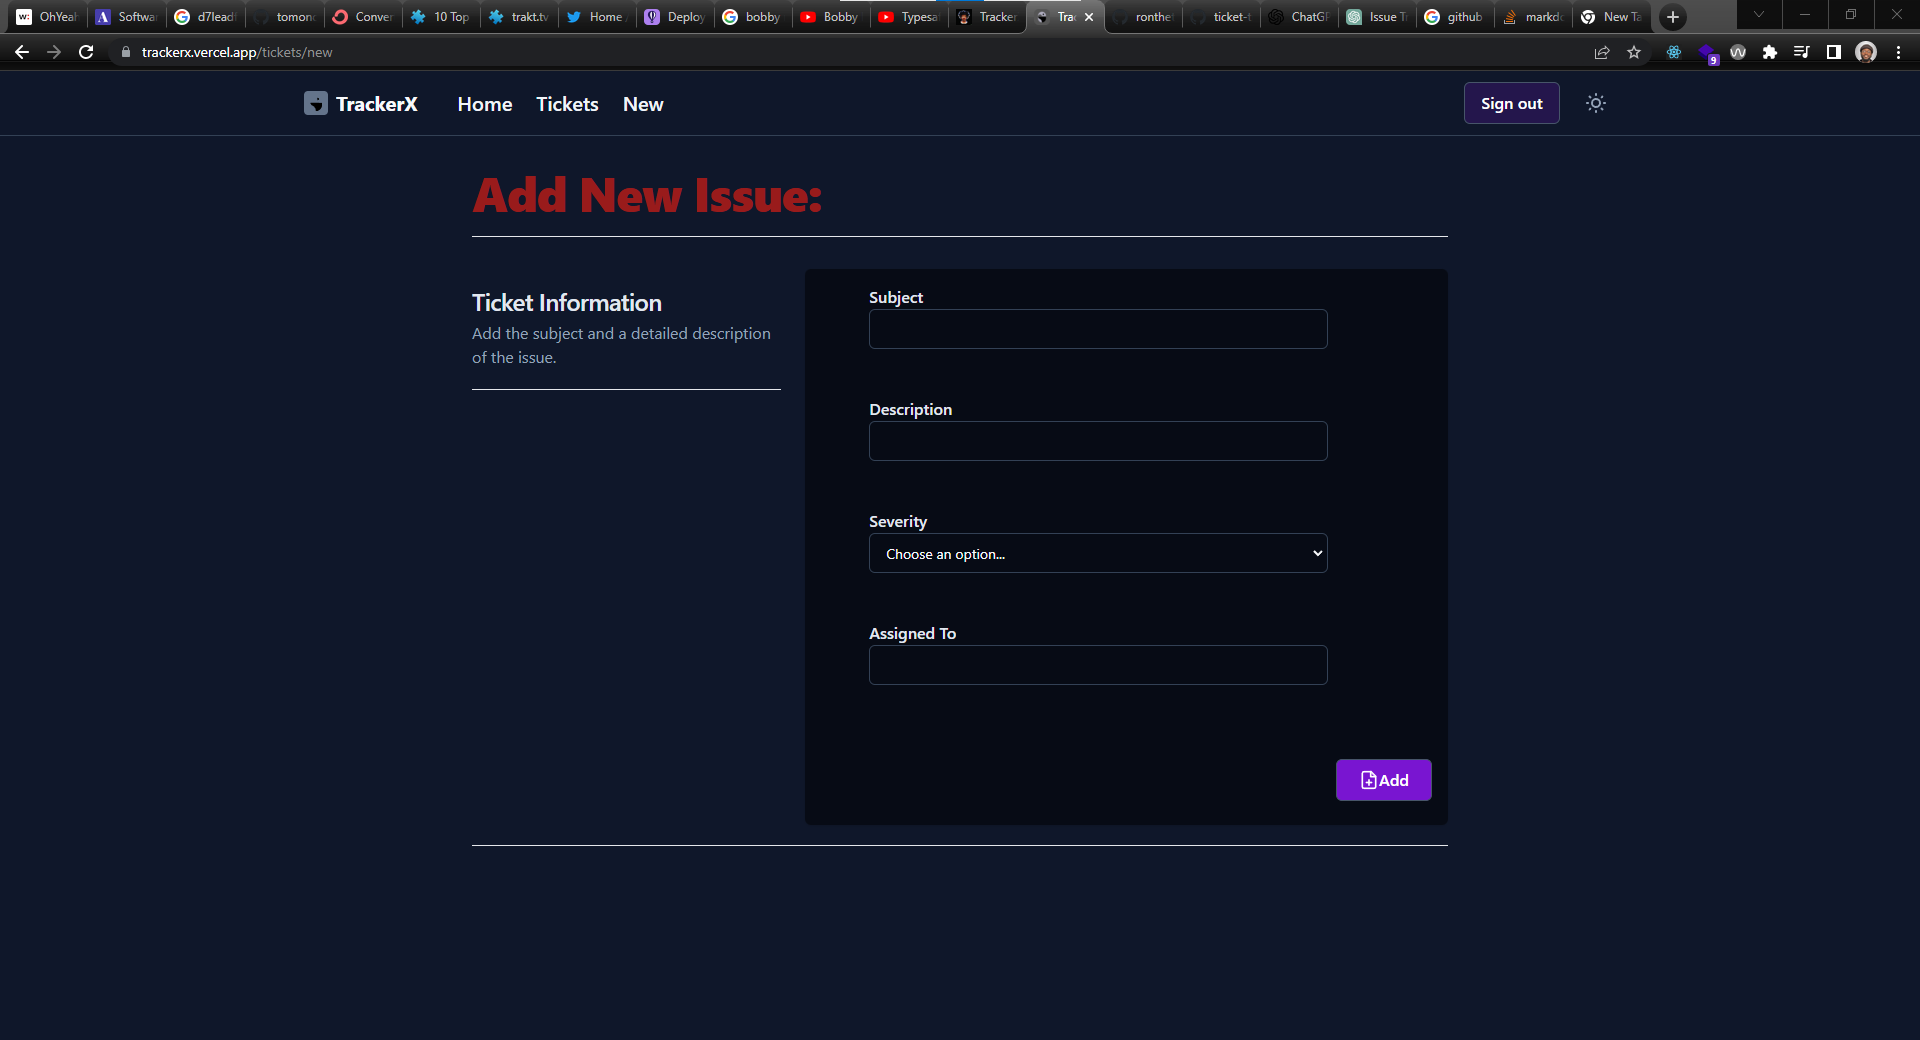
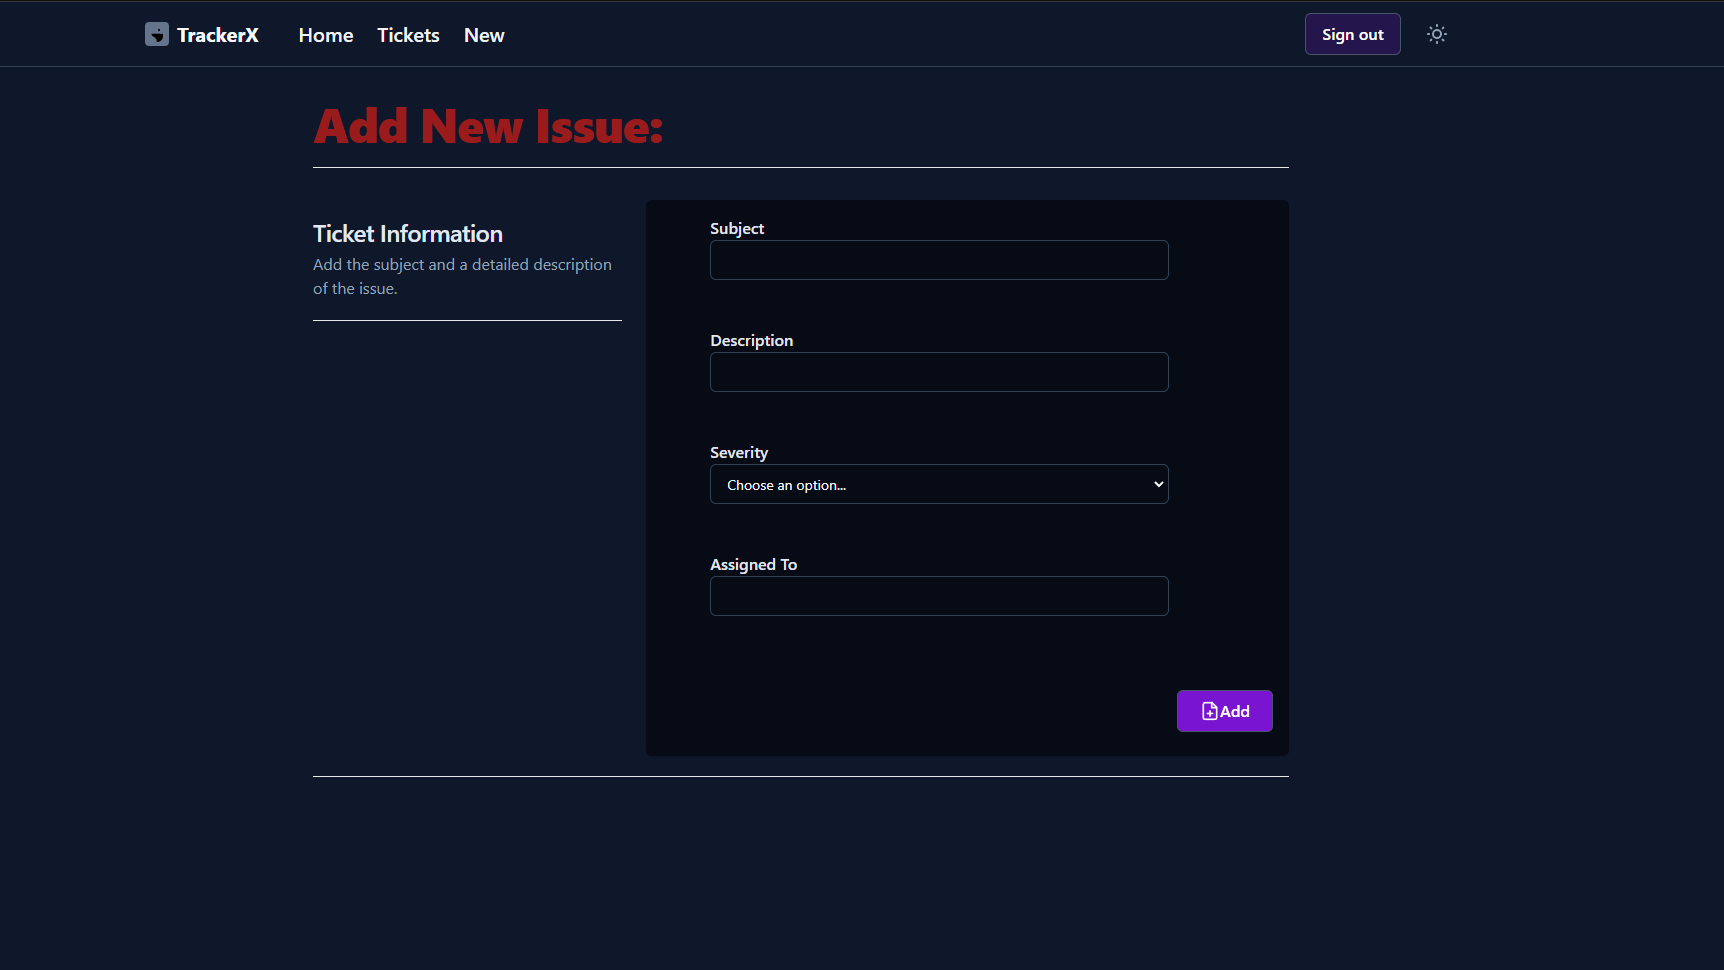
update readme and add images

diff --git a/README.md b/README.md
@@ -1,38 +1,15 @@
-This is a [Next.js](https://nextjs.org/) project bootstrapped with [`create-next-app`](https://github.com/vercel/next.js/tree/canary/packages/create-next-app).
+# TrackerX
 
-## Getting Started
+![hero](https://github.com/ronthetech/ticket-tracker/blob/main/public/img/0.png?raw=true)
 
-First, run the development server:
+A Web-based platform for tracking and managing issues. Users can easily create, track, and resolve bugs, and other tasks.
 
-```bash
-npm run dev
-# or
-yarn dev
-# or
-pnpm dev
-```
+## Create
 
-Open [http://localhost:3000](http://localhost:3000) with your browser to see the result.
+![create](https://github.com/ronthetech/ticket-tracker/blob/main/public/img/1.png?raw=true)
 
-You can start editing the page by modifying `pages/index.js`. The page auto-updates as you edit the file.
+## Tickets
 
-[API routes](https://nextjs.org/docs/api-routes/introduction) can be accessed on [http://localhost:3000/api/hello](http://localhost:3000/api/hello). This endpoint can be edited in `pages/api/hello.js`.
+Help your team stay organized, documenting issues efficiently and effectively.
 
-The `pages/api` directory is mapped to `/api/*`. Files in this directory are treated as [API routes](https://nextjs.org/docs/api-routes/introduction) instead of React pages.
-
-This project uses [`next/font`](https://nextjs.org/docs/basic-features/font-optimization) to automatically optimize and load Inter, a custom Google Font.
-
-## Learn More
-
-To learn more about Next.js, take a look at the following resources:
-
-- [Next.js Documentation](https://nextjs.org/docs) - learn about Next.js features and API.
-- [Learn Next.js](https://nextjs.org/learn) - an interactive Next.js tutorial.
-
-You can check out [the Next.js GitHub repository](https://github.com/vercel/next.js/) - your feedback and contributions are welcome!
-
-## Deploy on Vercel
-
-The easiest way to deploy your Next.js app is to use the [Vercel Platform](https://vercel.com/new?utm_medium=default-template&filter=next.js&utm_source=create-next-app&utm_campaign=create-next-app-readme) from the creators of Next.js.
-
-Check out our [Next.js deployment documentation](https://nextjs.org/docs/deployment) for more details.
+![tickets](https://github.com/ronthetech/ticket-tracker/blob/main/public/img/2.png?raw=true)
